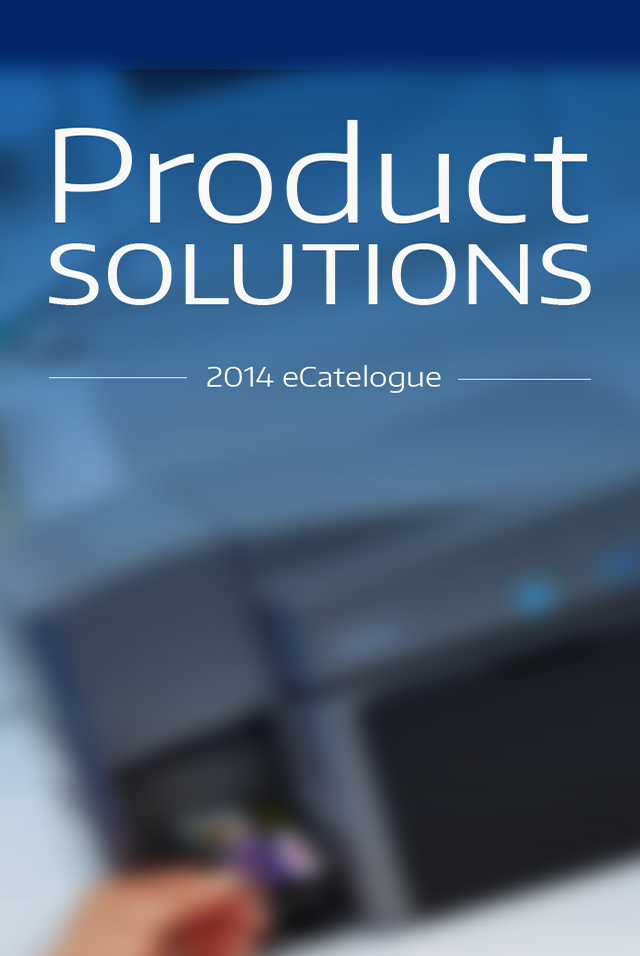
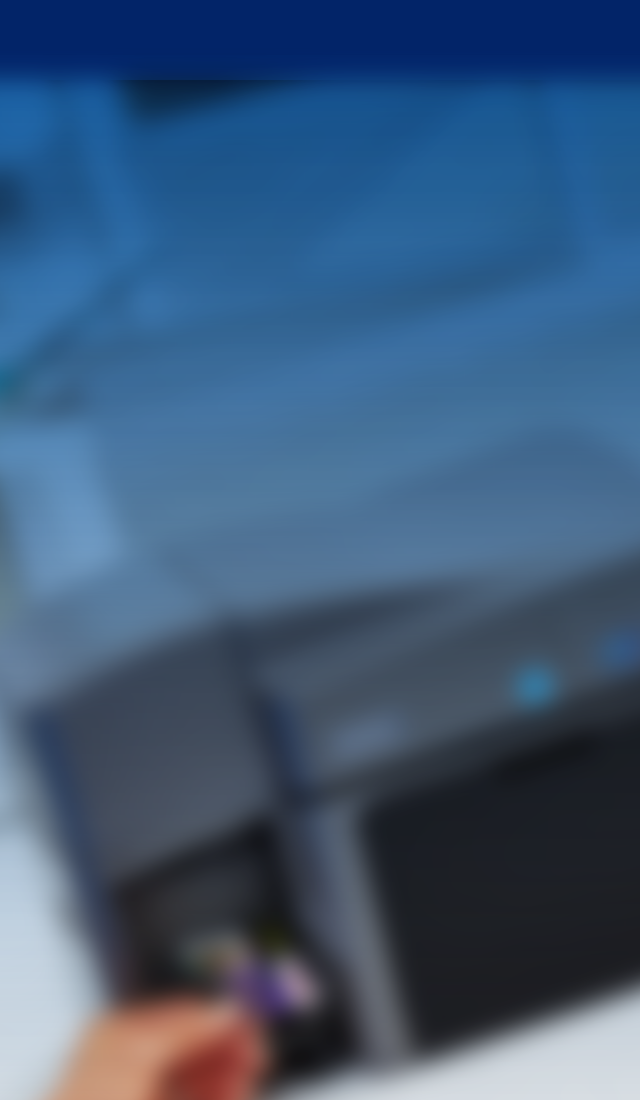
updating home screen

Changed region(s): [[0.0625, 0.1213, 0.9375, 0.3337], [0.3125, 0.364, 0.6875, 0.4247]]

diff --git a/platforms/android/assets/www/home.html b/platforms/android/assets/www/home.html
@@ -1,25 +1,22 @@
 <ons-page>
   <ons-toolbar modifier="transparent">
     <div class="right">
-      <ons-toolbar-button ng-click="menu.setMainPage('locations.html', {closeMenu: true})" ><ons-icon icon="ion-ios7-location" style="color: white; font-size: 28px;"></ons-icon></ons-toolbar-button>
-    </div>
-    <div class="left">
       <ons-toolbar-button ng-click="menu.toggle()"><ons-icon icon="ion-navicon-round" style="color: white; font-size: 28px;" fixed-width="false"></ons-icon></ons-toolbar-button>
     </div>
   </ons-toolbar>
 
   <div class="details-content glass">
     <div class="welcome">
-      <h2 class="home-title">Pomodoro</h2>
-      <p class="subtitle">Steakhouse &amp; Seafood</p>
+      <h2 class="home-title">Product Solutions</h2>
+      <p class="subtitle">2014 eCatelogue</p>
     </div>
-    <div class="blur">
+    <div class="">
       <img src="img/bg.png" class="bg">
     </div>
   </div>
 
   <svg version="1.1" xmlns="http://www.w3.org/2000/svg">
-   <filter id="blur">
+   <filter id="">
      <feGaussianBlur stdDeviation="10" />
      </filter>
   </svg> 

diff --git a/platforms/ios/www/home.html b/platforms/ios/www/home.html
@@ -1,17 +1,14 @@
 <ons-page>
   <ons-toolbar modifier="transparent">
     <div class="right">
-      <ons-toolbar-button ng-click="menu.setMainPage('locations.html', {closeMenu: true})" ><ons-icon icon="ion-ios7-location" style="color: white; font-size: 28px;"></ons-icon></ons-toolbar-button>
-    </div>
-    <div class="left">
       <ons-toolbar-button ng-click="menu.toggle()"><ons-icon icon="ion-navicon-round" style="color: white; font-size: 28px;" fixed-width="false"></ons-icon></ons-toolbar-button>
     </div>
   </ons-toolbar>
 
   <div class="details-content glass">
     <div class="welcome">
-      <h2 class="home-title"></h2>
-      <p class="subtitle"></p>
+      <h2 class="home-title">Product Solutions</h2>
+      <p class="subtitle">2014 eCatelogue</p>
     </div>
     <div class="">
       <img src="img/bg.png" class="bg">

diff --git a/www/home.html b/www/home.html
@@ -7,8 +7,8 @@
 
   <div class="details-content glass">
     <div class="welcome">
-      <h2 class="home-title"></h2>
-      <p class="subtitle"></p>
+      <h2 class="home-title">Product Solutions</h2>
+      <p class="subtitle">2014 eCatelogue</p>
     </div>
     <div class="">
       <img src="img/bg.png" class="bg">

diff --git a/platforms/android/assets/www/index.html b/platforms/android/assets/www/index.html
@@ -22,7 +22,7 @@
   <script src="js/core.js"></script>
 </head>
 
-<body>    
+<body class="platform-android platform-cordova platform-webview">    
   
   <ons-sliding-menu
     menu-page="menu.html" main-page="home.html" side="left"

diff --git a/platforms/android/assets/www/css/app.css b/platforms/android/assets/www/css/app.css
@@ -391,7 +391,6 @@ img.bg {
   height: 250px;
   margin: 0 auto;
 }
-
 .app-page .app-hero ul[rn-carousel] .bgimage {
   text-align: center;
   color: white;

diff --git a/platforms/android/src/com/example/HidProductAppNew/CordovaApp.java b/platforms/android/src/com/example/HidProductAppNew/CordovaApp.java
@@ -1,0 +1,35 @@
+/*
+       Licensed to the Apache Software Foundation (ASF) under one
+       or more contributor license agreements.  See the NOTICE file
+       distributed with this work for additional information
+       regarding copyright ownership.  The ASF licenses this file
+       to you under the Apache License, Version 2.0 (the
+       "License"); you may not use this file except in compliance
+       with the License.  You may obtain a copy of the License at
+
+         http://www.apache.org/licenses/LICENSE-2.0
+
+       Unless required by applicable law or agreed to in writing,
+       software distributed under the License is distributed on an
+       "AS IS" BASIS, WITHOUT WARRANTIES OR CONDITIONS OF ANY
+       KIND, either express or implied.  See the License for the
+       specific language governing permissions and limitations
+       under the License.
+ */
+
+package com.example.HidProductAppNew;
+
+import android.os.Bundle;
+import org.apache.cordova.*;
+
+public class CordovaApp extends CordovaActivity
+{
+    @Override
+    public void onCreate(Bundle savedInstanceState)
+    {
+        super.onCreate(savedInstanceState);
+        super.init();
+        // Set by <content src="index.html" /> in config.xml
+        loadUrl(launchUrl);
+    }
+}
